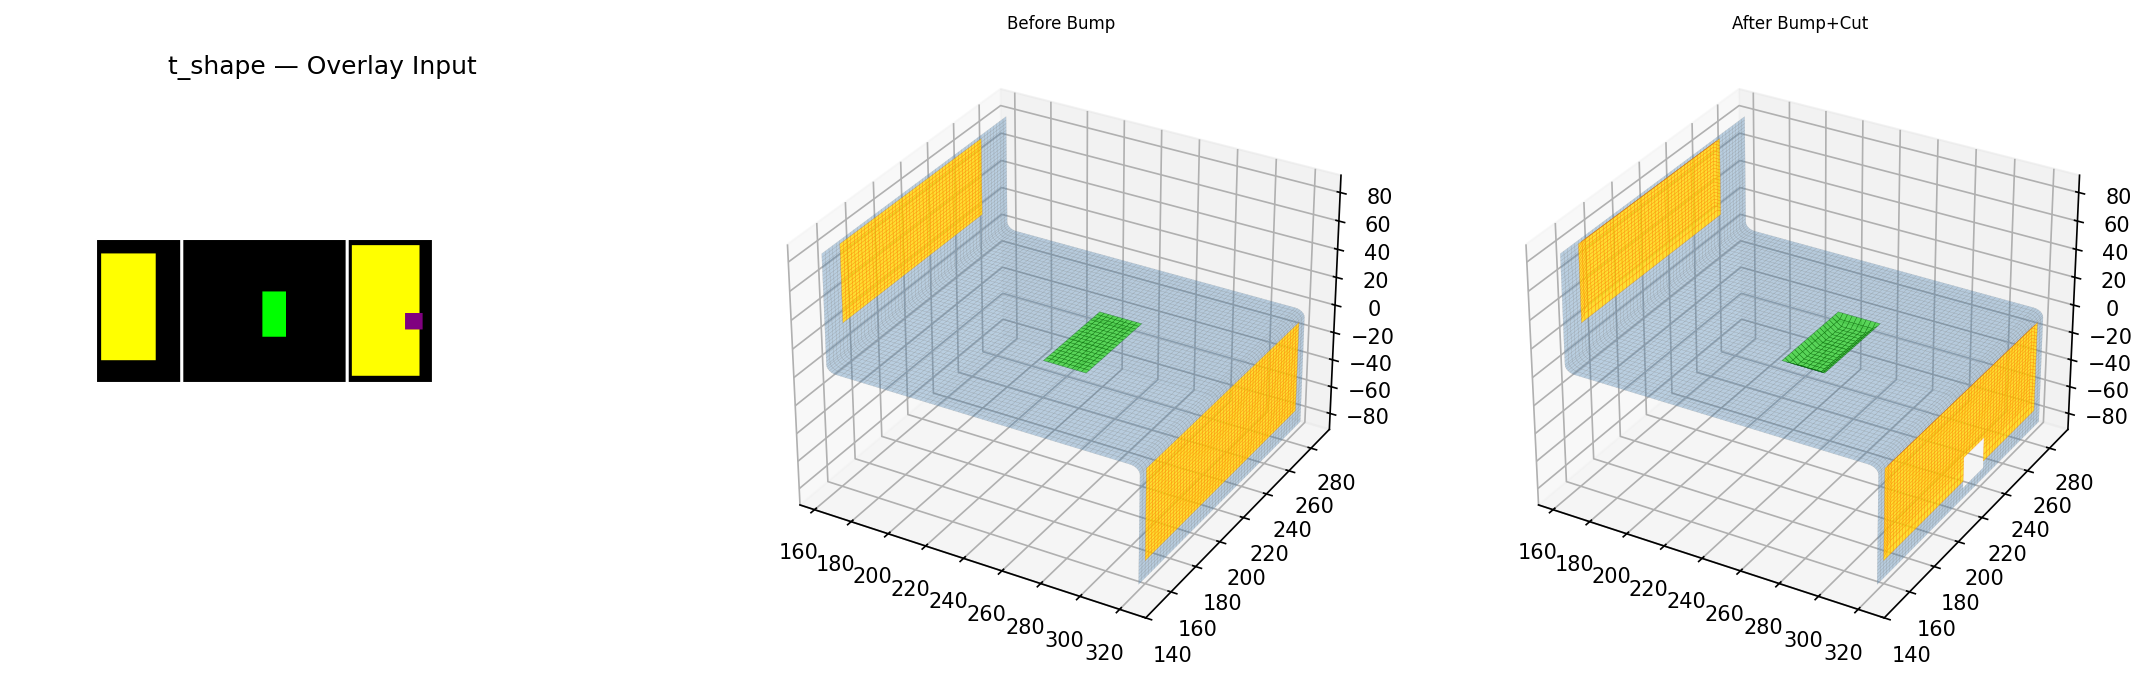
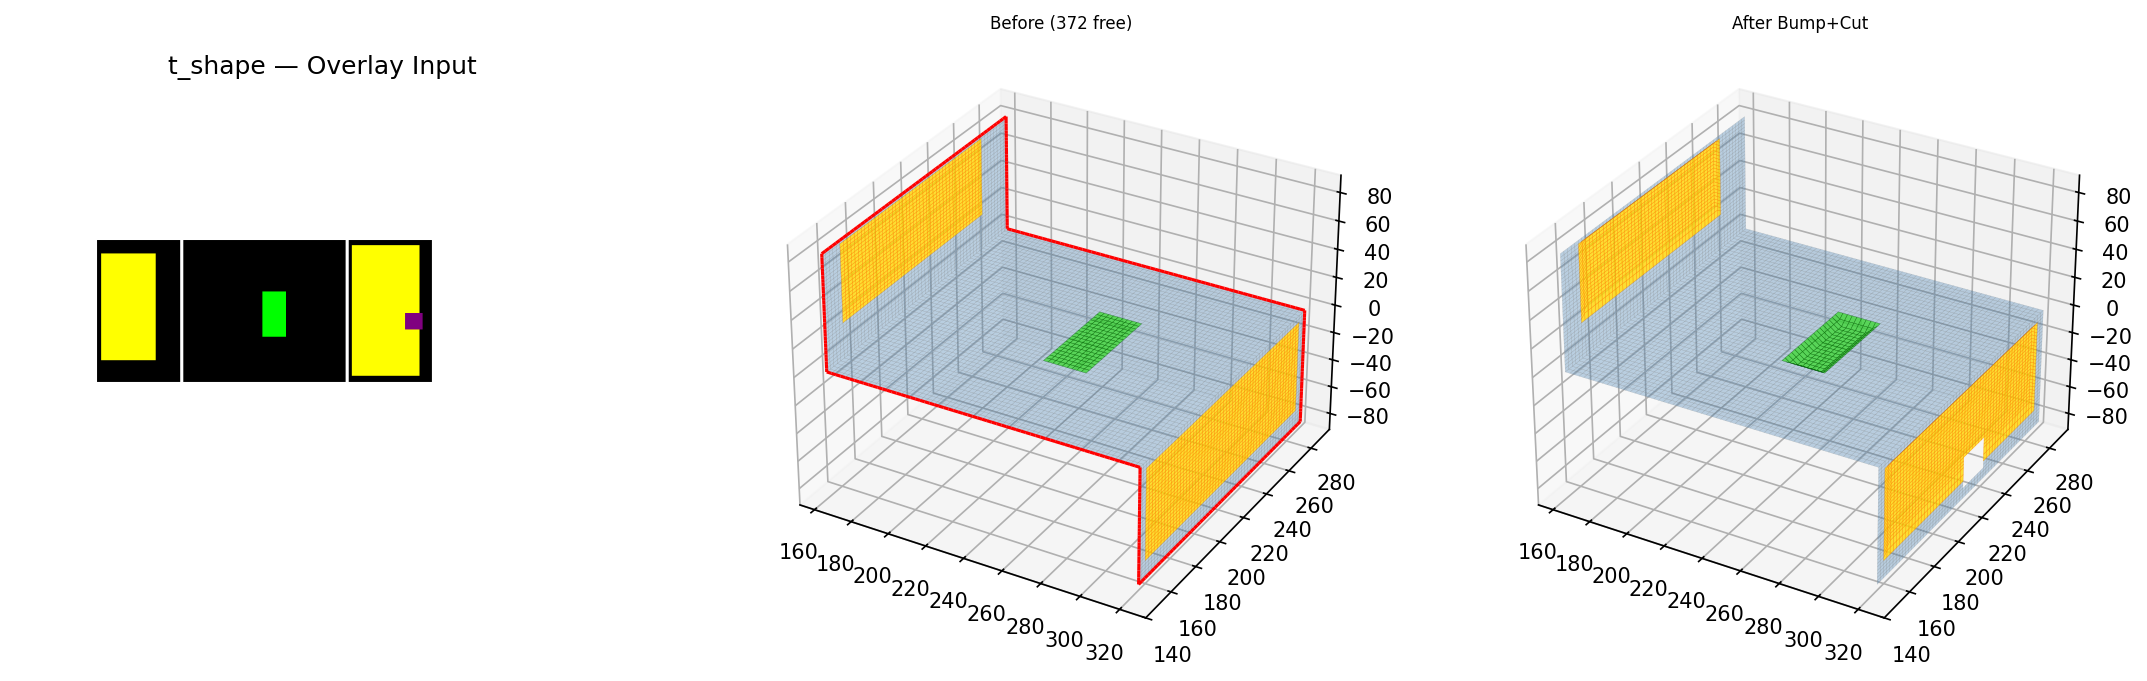
Phase 6: sharp folds, no fillets — 2026-04-22 23:34 KST
Removed fillet cylinders and corner patches. Panels connect
directly at fold edges. Stitcher bypassed. Red = free edges.

diff --git a/README.md b/README.md
@@ -48,12 +48,14 @@ Per-element binary mask via inverse 4x4 transform → 2D pixel lookup. Gold = ye
 ### Cross: 2D Yellow Input → 3D Labels
 ![phase5_5_cross](phase5_5_cross.png)
 
-## Phase 6: Bump & Cut (2026-04-22 23:15 KST)
-Yellow = +z bump, Green = -z bump (literal z-axis, pre-fold direction).
-Purple = hole cut (just delete overlapping elements, nothing else).
-Smoothstep ramp, bump_height = ramp_distance = 2×mean_edge_length.
+## Phase 6: Sharp Fold + Bump & Cut (2026-04-22 23:34 KST)
 
-**Fix**: panel_id now propagated from mesher→stitcher→labeler. No more nearest-panel guessing — each element knows its source panel exactly. Eliminates ghost color regions from cross-panel mismatches.
+**Major change**: Removed fillet cylinders and corner patches. Panels now connect directly at sharp fold edges (`fillet_radius=0`). Stitcher bypassed — just passthrough with free edge reporting.
+
+- Yellow = +z bump, Green = -z bump (literal z-axis, pre-fold direction)
+- Purple = hole cut (just delete overlapping elements)
+- Smoothstep ramp, bump_height = ramp_distance = 2×mean_edge_length
+- Red lines = free edges (boundary edges used by only 1 element)
 
 **Separate input images:** `_bump.png` (yellow+green) and `_hole.png` (purple).
 
@@ -62,7 +64,7 @@ Smoothstep ramp, bump_height = ramp_distance = 2×mean_edge_length.
 |---|---|
 | ![l_shape_bump](l_shape_bump.png) | ![l_shape_hole](l_shape_hole.png) |
 
-### Overview: Before vs After (8 cases)
+### Overview: Before vs After (8 cases, red = free edges)
 ![phase6_results](phase6_results.png)
 
 ### L-Shape Detail
